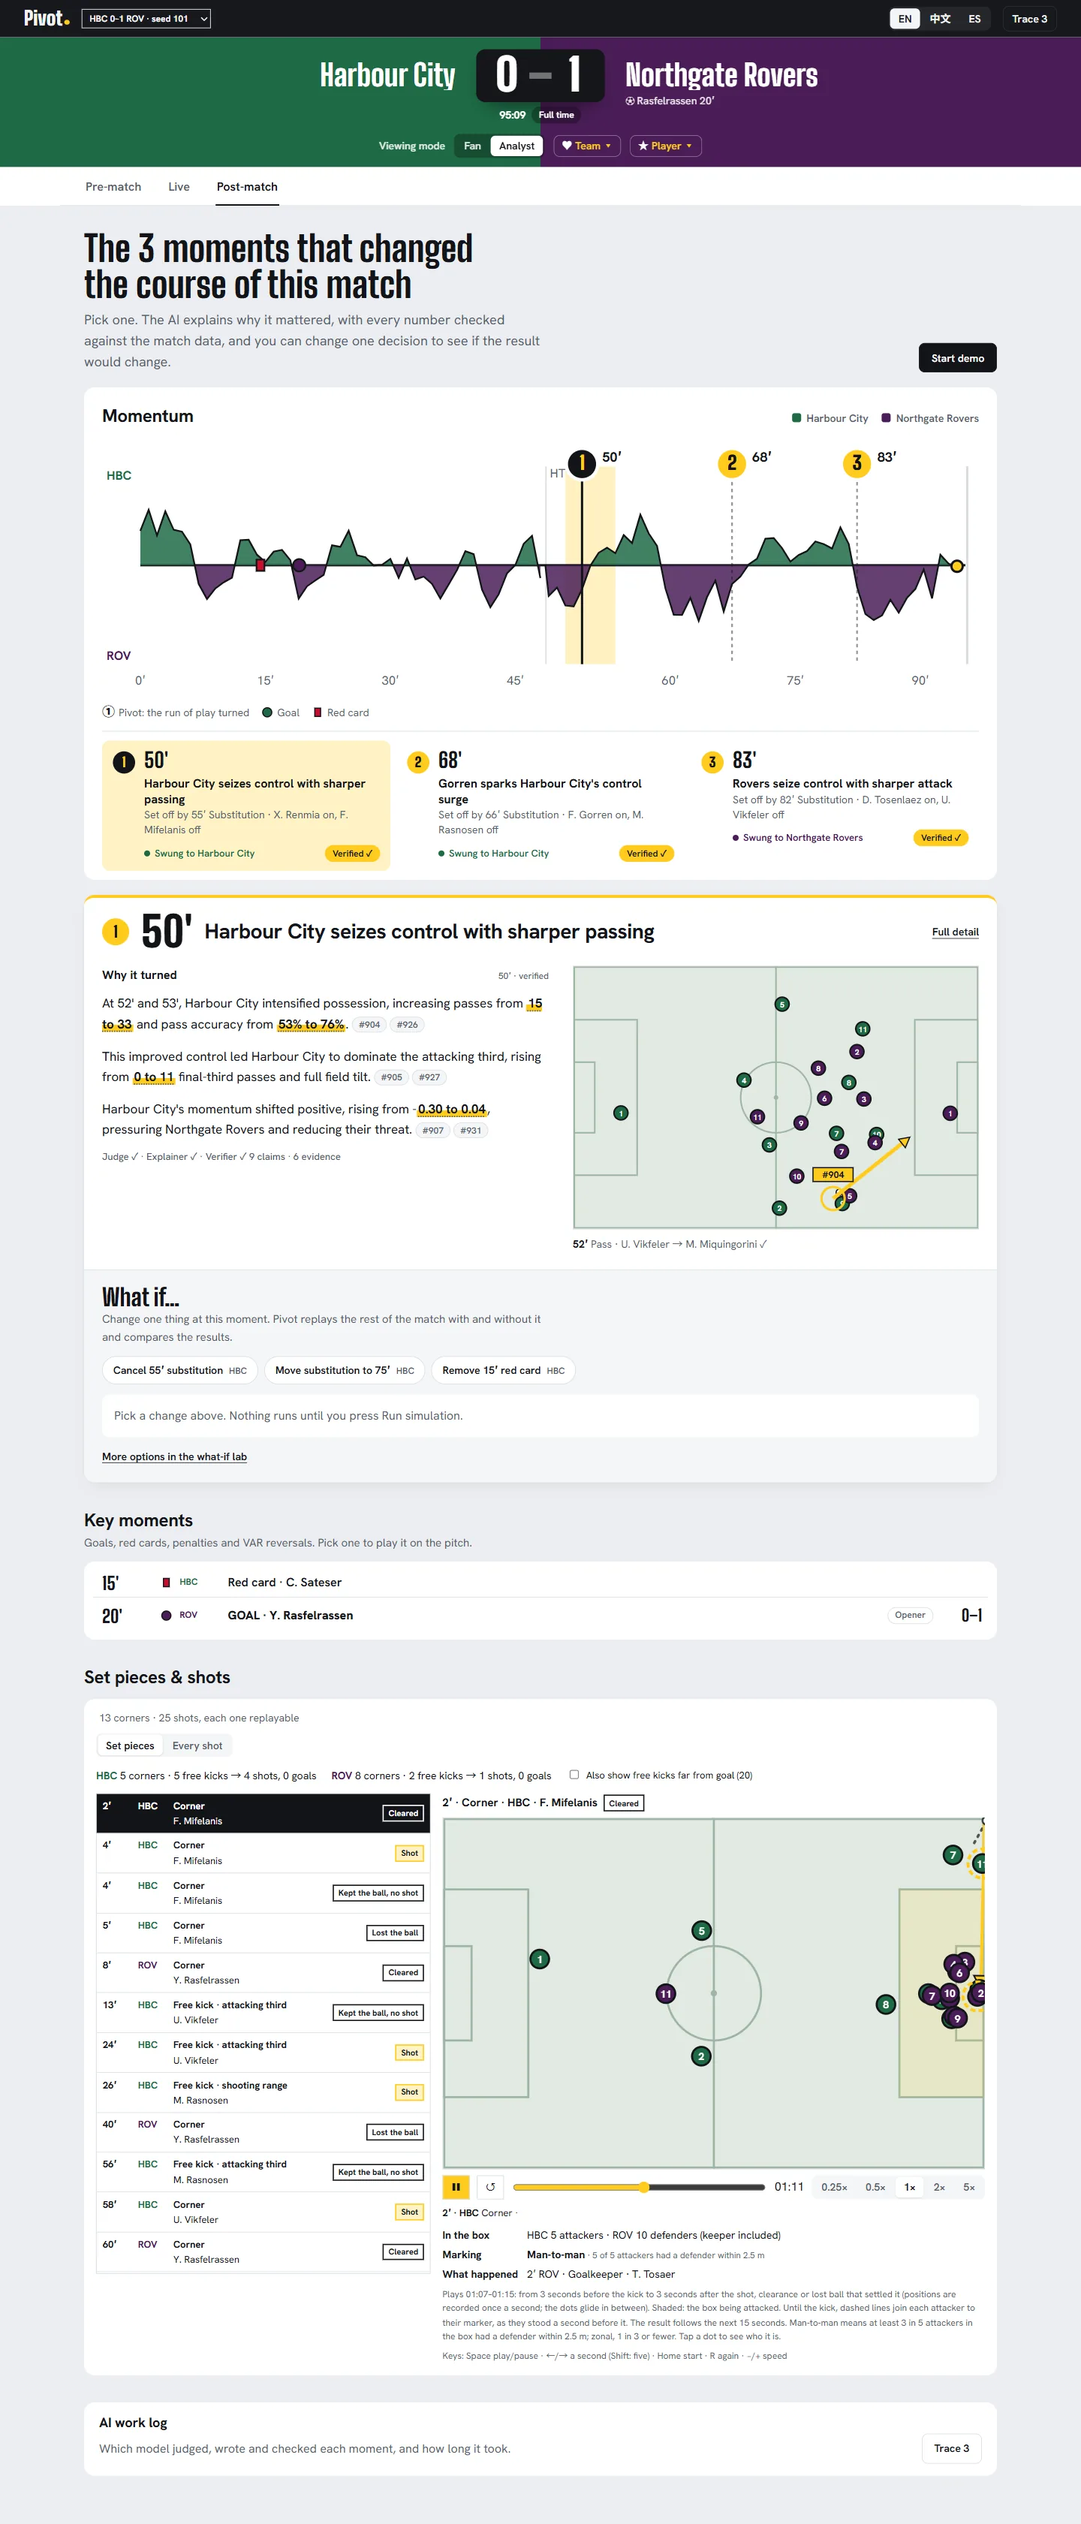
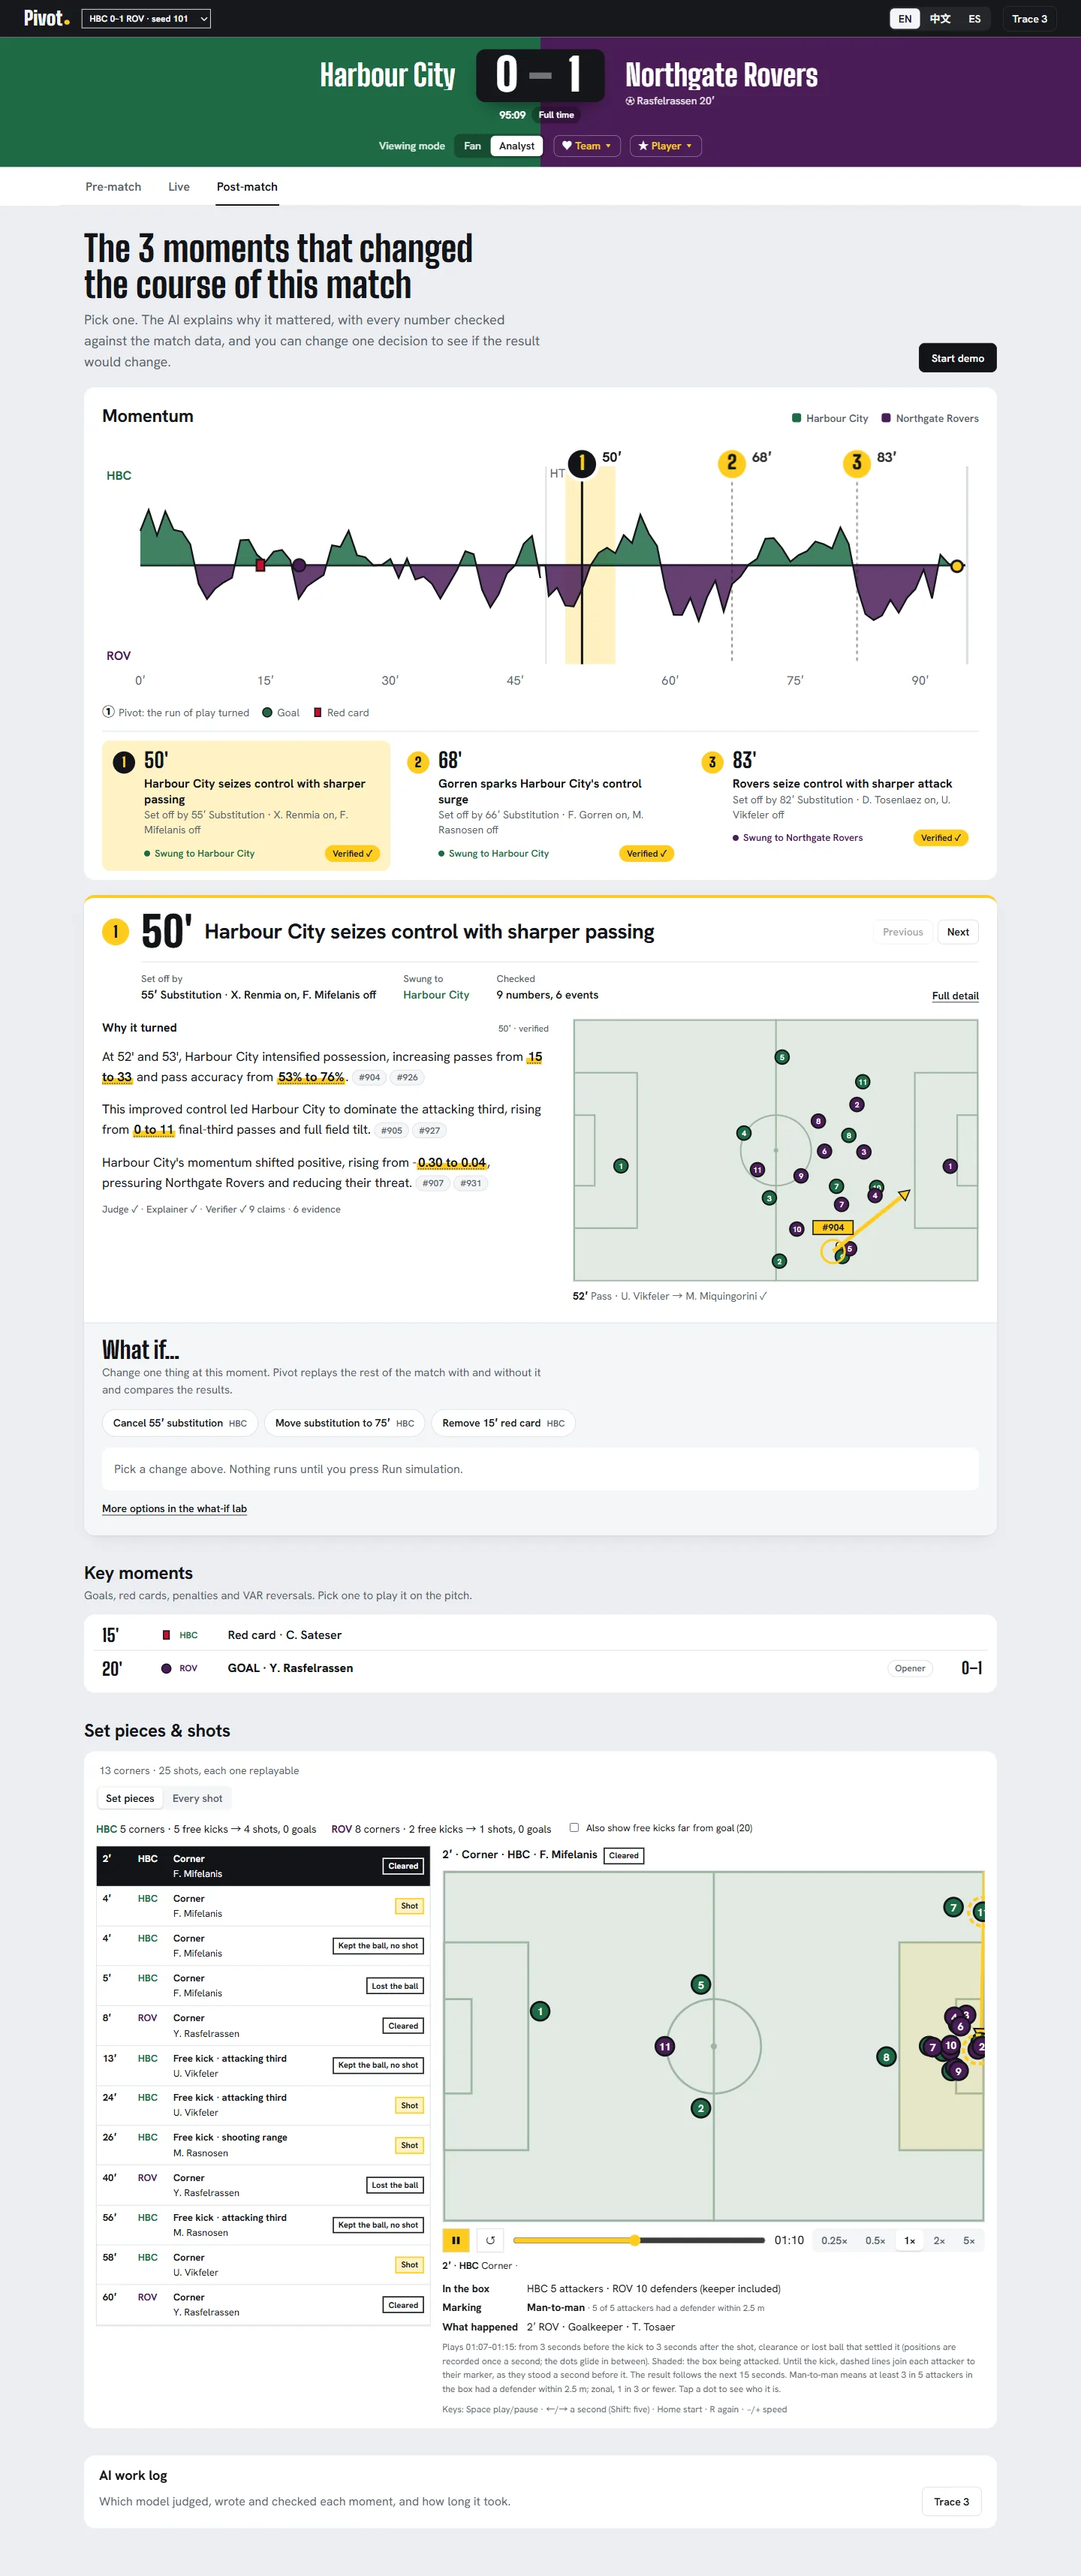
C11 prototype: references from award winners, one reveal, previous / next (#288)
After The Immortals: one turning point at a time with previous / next, and its facts
as label over value. After The Last Tango: the page's one reveal, momentum drawn from
kick-off to full time with the pins dropping in (skipped under reduced motion).
Design plan lists the five reference sites and what each lends.

Also: the pre-match context-effects note says they are context only, not applied in play.

diff --git a/apps/web/src/components/Moments.tsx b/apps/web/src/components/Moments.tsx
@@ -157,20 +157,35 @@ export function WhatIfInline({ pivot }: { pivot: Pivot }) {
 }
 
 /** The one moment opened up: why it mattered, where everyone stood, and (C11) what-if for this moment under them. */
-export function OpenMoment({ pivot, n, evidence, onEvidence, children }: {
-  pivot: Pivot; n: number; evidence: ReadonlySet<string>; onEvidence: (id: string) => void; children?: ReactNode;
+export function OpenMoment({ pivot, n, evidence, onEvidence, onPrev, onNext, children }: {
+  pivot: Pivot; n: number; evidence: ReadonlySet<string>; onEvidence: (id: string) => void;
+  /** The turning points either side, one at a time on the same line; absent at either end. */
+  onPrev?: () => void; onNext?: () => void; children?: ReactNode;
 }) {
   const { teams } = useMatch();
   const t = useT();
   const { minute } = useClock();
+  const cause = useCause(pivot);
   const picked = [...evidence].at(-1) ?? null;
+  const sentences = pivot.narrative?.sentences ?? [];
+  const claims = sentences.reduce((k, s) => k + s.claims.length, 0);
+  const events = new Set(sentences.flatMap((s) => s.evidence_ids)).size;
   return (
     <section className={`open-mo to-${pivot.direction}`} aria-labelledby="open-mo-hd">
       <div className="open-hd">
         <span className="badge" aria-hidden="true">{n}</span>
         <span className="open-min num">{minute(pivot.minute)}′</span>
         <h2 id="open-mo-hd">{pivotHeadline(pivot, teams, t)}</h2>
-        <Link to={`/pivot/${pivot.pivot_id}`} className="more-link">{t("moments.detail")}</Link>
+        <nav className="open-nav" aria-label={t("post.pivots")}>
+          <button type="button" className="btn" onClick={onPrev} disabled={!onPrev} aria-label={t("moments.prevLabel")}>{t("moments.prev")}</button>
+          <button type="button" className="btn" onClick={onNext} disabled={!onNext} aria-label={t("moments.nextLabel")}>{t("moments.next")}</button>
+        </nav>
+        <dl className="open-facts">
+          {cause && <div><dt>{t("open.trigger")}</dt><dd>{cause}</dd></div>}
+          <div className={`to-${pivot.direction}`}><dt>{t("open.swung")}</dt><dd>{teams[pivot.direction].name}</dd></div>
+          {pivot.status === "confirmed" && <div><dt>{t("open.checked")}</dt><dd>{t("open.checkedValue", { claims, evidence: events })}</dd></div>}
+          <div className="open-more"><Link to={`/pivot/${pivot.pivot_id}`} className="more-link">{t("moments.detail")}</Link></div>
+        </dl>
       </div>
       {pivot.status === "degraded" && (
         <div className="banner warn" role="status">

diff --git a/apps/web/src/components/MomentumChart.tsx b/apps/web/src/components/MomentumChart.tsx
@@ -1,4 +1,4 @@
-import { useId } from "react";
+import { useId, type CSSProperties } from "react";
 import type { MinuteMetric, Pivot1 as Pivot } from "@pivot/contracts";
 import { useClock } from "../data/clock";
 import type { KeyKind } from "../data/keyMoments";
@@ -91,9 +91,12 @@ export default function MomentumChart({ metrics, pivots, homeLabel, awayLabel, n
       <text x={4} y={H - B - 4} fontSize={11} fontWeight={700} fill="var(--pv-away)">
         {awayLabel}
       </text>
-      <path d={area} fill="var(--pv-home)" fillOpacity={0.85} clipPath={`url(#${clip}up)`} />
-      <path d={area} fill="var(--pv-away)" fillOpacity={0.85} clipPath={`url(#${clip}dn)`} />
-      <path d={line} fill="none" stroke="var(--pv-ink)" strokeWidth={1.5} />
+      {/* C11: the one reveal on the page, kick-off to full time (base.css, reduced motion skips it). */}
+      <g className="mom-draw">
+        <path d={area} fill="var(--pv-home)" fillOpacity={0.85} clipPath={`url(#${clip}up)`} />
+        <path d={area} fill="var(--pv-away)" fillOpacity={0.85} clipPath={`url(#${clip}dn)`} />
+        <path d={line} fill="none" stroke="var(--pv-ink)" strokeWidth={1.5} />
+      </g>
       {pivots.map((p) => {
         const pending = p.status === "pending";
         const label = `${minute(p.minute)}′`;
@@ -102,7 +105,7 @@ export default function MomentumChart({ metrics, pivots, homeLabel, awayLabel, n
           const cx = x(p.minute);
           const open = () => onPick(p.pivot_id);
           return (
-            <g key={p.pivot_id} className={`mom-mk${p.pivot_id === selected ? " on" : ""}`} role="button" tabIndex={0}
+            <g key={p.pivot_id} className={`mom-mk${p.pivot_id === selected ? " on" : ""}`} style={{ "--at": p.minute / end } as CSSProperties} role="button" tabIndex={0}
               aria-pressed={p.pivot_id === selected} aria-label={t("moments.open", { n: n + 1, minute: minute(p.minute) })}
               onClick={open} onKeyDown={(e) => (e.key === "Enter" || e.key === " ") && (e.preventDefault(), open())}>
               <line x1={cx} x2={cx} y1={T + 2} y2={H - B} />

diff --git a/apps/web/src/styles/base.css b/apps/web/src/styles/base.css
@@ -471,6 +471,25 @@ details.more > summary small { font-weight: 600; text-transform: none; color: va
   .open-bd { padding: 12px; }
 }
 
+/* One moment at a time on the line (after The Immortals): previous / next, then the facts as label over value. */
+.open-nav { display: flex; gap: 6px; }
+.open-nav .btn { padding: 5px 12px; }
+.btn:disabled, .btn:disabled:hover { opacity: .4; cursor: default; background: var(--pv-sheet); border-color: var(--pv-hair); transform: none; }
+.open-facts { grid-column: 2 / -1; display: flex; flex-wrap: wrap; align-items: end; gap: 8px 36px; margin: 14px 0 0; padding-top: 12px; border-top: 1px solid var(--pv-hair); }
+.open-facts > div { display: grid; min-width: 0; }
+.open-facts dt { font-size: 13px; font-weight: 500; color: var(--pv-ink-2); }
+.open-facts dd { margin: 0; font-size: 15px; font-weight: 600; }
+.open-facts .to-home dd { color: var(--pv-home); }
+.open-facts .to-away dd { color: var(--pv-away); }
+.open-facts .open-more { margin-left: auto; }
+/* The page's one reveal (after The Last Tango): momentum draws from kick-off to full time, then the pins drop in at their minute. */
+@media (prefers-reduced-motion: no-preference) {
+  .turns .mom-draw { animation: mom-draw 1.2s cubic-bezier(.3, .7, .2, 1) both; }
+  .turns .mom-mk { animation: pin-in .45s cubic-bezier(.2, 1.3, .4, 1) both; animation-delay: calc(.2s + var(--at, 0) * 1.1s); }
+}
+@keyframes mom-draw { from { clip-path: inset(0 100% 0 0); } to { clip-path: inset(0 0 0 0); } }
+@keyframes pin-in { from { opacity: 0; transform: translateY(-10px); } }
+
 /* ---------- Match board: key moments (Ax38) ---------- */
 .mom-key { cursor: pointer; }
 .mom-key .hit { fill: transparent; }

diff --git a/apps/web/src/i18n/messages/es.ts b/apps/web/src/i18n/messages/es.ts
@@ -157,6 +157,14 @@ export const es: Messages = {
   "moments.open": "Abrir el momento {n}, {minute}′",
   "moments.cause": "Origen: {cause}",
   "moments.detail": "Detalle completo",
+  "moments.prev": "Anterior",
+  "moments.next": "Siguiente",
+  "moments.prevLabel": "Punto de inflexión anterior",
+  "moments.nextLabel": "Siguiente punto de inflexión",
+  "open.trigger": "Origen",
+  "open.swung": "El impulso pasa a",
+  "open.checked": "Comprobado",
+  "open.checkedValue": "{claims} cifras, {evidence} eventos",
   "moments.chipHint": "Mostrar este evento en el campo y en la lista de eventos",
   "moments.wiNote": "Cambia una cosa en este momento. Pivot repite el resto del partido con y sin el cambio y compara los resultados.",
   "moments.wiPick": "Elige un cambio arriba. No se ejecuta nada hasta que pulses Ejecutar simulación.",
@@ -663,7 +671,7 @@ export const es: Messages = {
   "pre.kind.charity": "Solidaridad",
   "pre.kind.milestone": "Hito",
   "pre.kind.new_contract": "Nuevo contrato",
-  "pre.factorsNote": "lo que el simulador aplica al inicio",
+  "pre.factorsNote": "lo que podría influir en los jugadores (solo como contexto; no se aplica en el partido)",
   "pre.target.composure": "Temple",
   "pre.target.motivation": "Motivación",
   "pre.target.concentration": "Concentración",

diff --git a/apps/web/src/i18n/messages/zh.ts b/apps/web/src/i18n/messages/zh.ts
@@ -156,6 +156,14 @@ export const zh: Messages = {
   "moments.open": "打开第 {n} 个时刻（{minute}′）",
   "moments.cause": "起因：{cause}",
   "moments.detail": "完整详情",
+  "moments.prev": "上一个",
+  "moments.next": "下一个",
+  "moments.prevLabel": "上一个转折点",
+  "moments.nextLabel": "下一个转折点",
+  "open.trigger": "起因",
+  "open.swung": "势头转向",
+  "open.checked": "已核对",
+  "open.checkedValue": "{claims} 个数字，{evidence} 个事件",
   "moments.chipHint": "在球场和事件列表里显示这个事件",
   "moments.wiNote": "改掉这一刻的一件事，Pivot 把剩下的比赛改前改后各重放一遍，再对比结局。",
   "moments.wiPick": "先在上面选一个改动。不按「开始重踢」就不会跑。",
@@ -661,7 +669,7 @@ export const zh: Messages = {
   "pre.kind.charity": "公益",
   "pre.kind.milestone": "里程碑",
   "pre.kind.new_contract": "续约",
-  "pre.factorsNote": "模拟器开球时实际计入的影响",
+  "pre.factorsNote": "可能影响球员的因素（仅作背景说明，比赛模拟时不计入）",
   "pre.target.composure": "冷静",
   "pre.target.motivation": "斗志",
   "pre.target.concentration": "专注",

diff --git a/apps/web/src/i18n/messages/en.ts b/apps/web/src/i18n/messages/en.ts
@@ -156,6 +156,14 @@ export const en = {
   "moments.open": "Open moment {n}, {minute}′",
   "moments.cause": "Set off by {cause}",
   "moments.detail": "Full detail",
+  "moments.prev": "Previous",
+  "moments.next": "Next",
+  "moments.prevLabel": "Previous turning point",
+  "moments.nextLabel": "Next turning point",
+  "open.trigger": "Set off by",
+  "open.swung": "Swung to",
+  "open.checked": "Checked",
+  "open.checkedValue": "{claims} numbers, {evidence} events",
   "moments.chipHint": "Show this event on the pitch and in the event list",
   "moments.wiNote": "Change one thing at this moment. Pivot replays the rest of the match with and without it and compares the results.",
   "moments.wiPick": "Pick a change above. Nothing runs until you press Run simulation.",
@@ -662,7 +670,7 @@ export const en = {
   "pre.kind.charity": "Charity",
   "pre.kind.milestone": "Milestone",
   "pre.kind.new_contract": "New contract",
-  "pre.factorsNote": "what the simulator applies at kick-off",
+  "pre.factorsNote": "what could tip the players (shown for context; not applied in play)",
   "pre.target.composure": "Composure",
   "pre.target.motivation": "Motivation",
   "pre.target.concentration": "Focus",

diff --git a/apps/web/src/pages/match/PostMatchTab.tsx b/apps/web/src/pages/match/PostMatchTab.tsx
@@ -117,7 +117,9 @@ export function PostMatchTab({ moments, open, onPick, evidence, onEvidence, keyS
       </section>
 
       {open && (
-        <OpenMoment key={open.pivot_id} pivot={open} n={n} evidence={evidence} onEvidence={onEvidence}>
+        <OpenMoment key={open.pivot_id} pivot={open} n={n} evidence={evidence} onEvidence={onEvidence}
+          onPrev={n > 1 ? () => onPick(moments[n - 2].pivot_id) : undefined}
+          onNext={n < moments.length ? () => onPick(moments[n].pivot_id) : undefined}>
           <WhatIfInline key={open.pivot_id} pivot={open} />
         </OpenMoment>
       )}

diff --git a/docs/design/c11-design-plan.md b/docs/design/c11-design-plan.md
@@ -29,6 +29,22 @@
 
 完整清单在 `side-session-notes` 里（共 25 条，按影响排序），第 3 个 PR 会逐条处理。
 
+## 一点五、参考的获奖网站（标准是这些网站上的获奖作品，不是这两个网站本身）
+
+在 Awwwards 的体育、足球、数据可视化分类，以及 SiteInspire 的体育分类里挑出来的。获奖情况都是在 Awwwards 的作品页上核对过的。
+大部分获奖体育网站是品牌宣传页，我们是每天要用的比赛工具，所以只借它们的"做法"，不照搬"样子"
+（不做 3D、不做全屏大图、不做要先点"进入"的首页）。
+
+| 网站 | 在哪获奖 | 借什么 | 用在我们哪里 |
+|---|---|---|---|
+| [World Cup — The Immortals](https://theimmortals.world/) | Awwwards 荣誉提名（2026-08），足球 | **一次只讲一个时刻**，前后的时刻在两边露出来；小号浅色的标签（"Host""Winner"）压在大号的值上面；大标题用句子写法、字距收紧；浅灰底，让照片里的球衣颜色出彩 | 打开的转折点加了"上一个 / 下一个"；起因、势头转向、核对了几个数字，做成"小标签 + 大值"；页面灰底，颜色只来自两队队服 |
+| [The Last Tango](https://www.thelasttango.com/) | Awwwards 荣誉提名（2026-09），足球 | **数据本身就是画面**（梅西的进球变成点云）；全页只有一个金色圆按钮是"去这里"；只有一段精心安排的开场动画 | 势头图就是赛后页的主画面；黄色圆标是唯一的"点我"；进页面时势头线从开球画到终场，转折点按时间依次落下，只有这一处动画（系统设置了"减少动画"就不播） |
+| [No Football Colors](https://nofootballcolors.com/) | Awwwards 荣誉提名（2026-05），足球文化 | 界面本身只有黑白，**颜色全部来自内容**；窄而粗的大字是足球的"声音" | 界面用灰白和墨色，颜色只给队服；比分和分钟用窄粗的 Big Shoulders |
+| [&friends](https://andfriends.soccer/) | SiteInspire 体育分类收录，足球 | 一种很亮的荧光色配黑字，当"信号"用；圆角的小胶囊、小贴纸 | 转折点黄只配墨色文字；状态做成圆角小胶囊。它很闹，我们只借这一点，整体保持克制 |
+| [FieldRank](https://www.fieldrank.run/) | Awwwards 数据可视化分类的**提名作品**（没有获奖，如实写明）；选它是因为它是唯一一个真正"每天要用"的体育数据工具 | 白色面板放在暖灰底上；表格行距舒服，数字对齐；"#23 → #2"这样的前后变化 | 数据表、关键时刻列表的行距和数字对齐；第 3 个 PR 里赛中页的数据表照这个做。它用了全大写等宽小标签，这一点**不学** |
+
+这些网站的截图只放在本地给 momomojun 看，没有提交进仓库（里面有真实球员和球队标志）。
+
 ## 二、新方案："队服对撞"
 
 ### 一句话
@@ -118,6 +134,9 @@
 - 赛后页：势头图做主角，转折点挂在图下面，"假如"放进打开的转折点里。
 - **没有指定转折点时，默认打开第一个**（这样一进页面就看到 AI 的解释）。以前要先点一下。
 - 势头图上显示打开的转折点前后那段时间（黄色窗口）。
+- 打开的转折点可以按"上一个 / 下一个"切换，标题下面是"起因 / 势头转向 / 已核对"三组小标签加值（参考 The Immortals）。
+- 进页面时势头线从开球画到终场，转折点依次落下，全页只有这一处动画（参考 The Last Tango）。
+- 赛前页"场外因素"的说明改成实话："可能影响球员的因素（仅作背景说明，比赛模拟时不计入）"。三种语言都改了。B 线的会话指出，这些影响在网站上并没有算进比赛。
 - 去掉了全大写、"→"、编号；"Momentum → Harbour City" 改成 "Swung to Harbour City / 势头转向 / El impulso pasa a"。
 - 修了：键盘焦点框看不见、势头图按钮读屏读不到、主按钮和切换按钮没有悬停效果。
 - 测试、类型检查、打包都通过。
